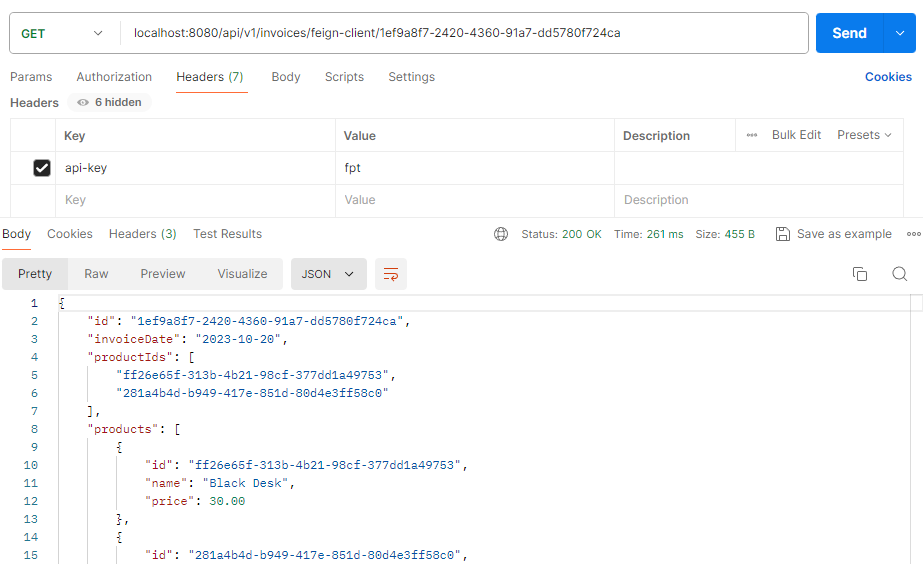
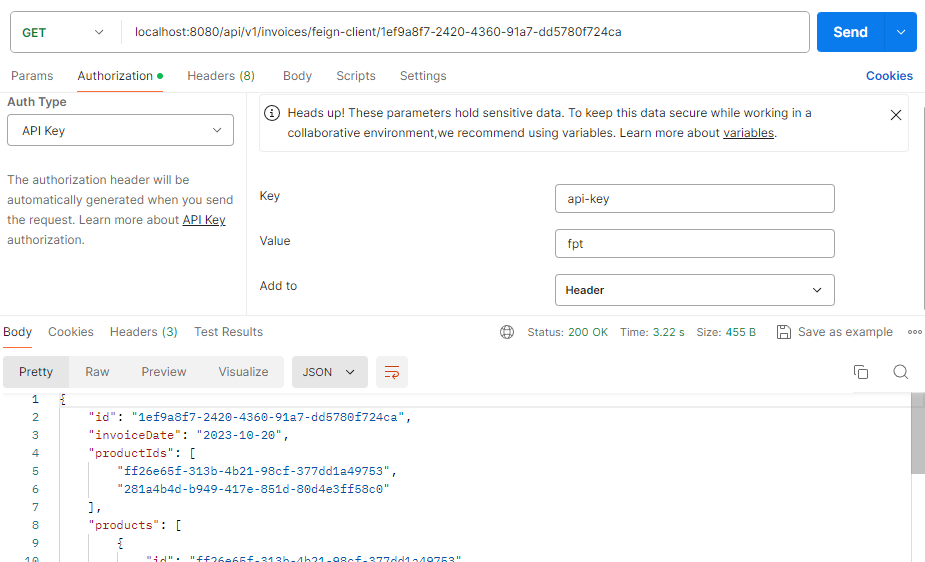
Feat: update assignment 2 lecture 19 (use default-filters)

diff --git a/Week 10/Lecture 19/Assignment 02/README.md b/Week 10/Lecture 19/Assignment 02/README.md
@@ -248,15 +248,15 @@ spring:
           uri: http://localhost:8081
           predicates:
             - Path=/api/v1/products/**
-          filters:
-            - ApiKeyFilter
         - id: invoice
           uri: http://localhost:8082
           predicates:
             - Path=/api/v1/invoices/**
-          filters:
-            - ApiKeyFilter
+      default-filters:
+        - name: ApiKeyFilter
 ```
+For the filter, I use `default-filters` so that the filter will be applied to all routes specified.
+
 
 **3⃣ Add WebClient configuration**
 
